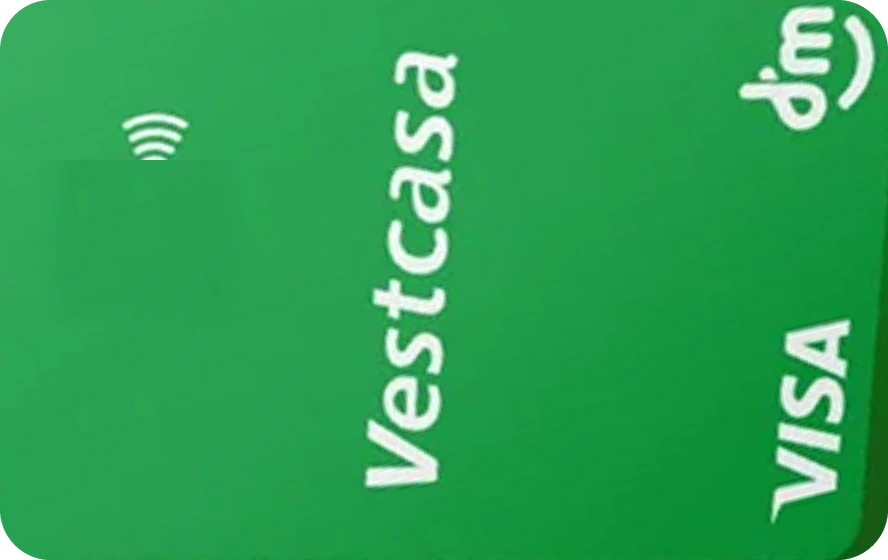
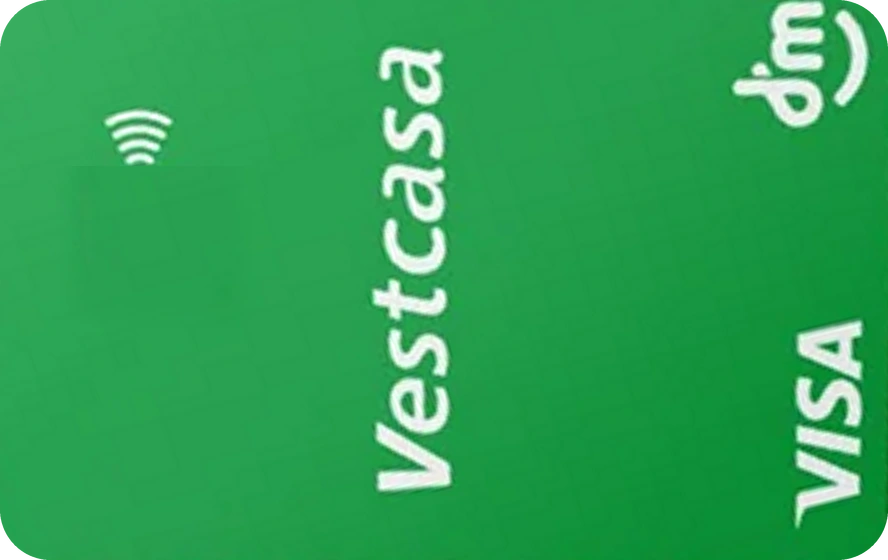
Fluxo PF: Vestcasa com o texto reto (vertical)

diff --git a/pf.js b/pf.js
@@ -362,7 +362,7 @@
   // Bancos usam assets/bancos/<id>.png; lojas usam assets/emissores/<id>.png (troque o arquivo pelo logo oficial quando quiser).
   const EMISSORES = [['bradesco', 'Bradesco', 'b'], ['nubank', 'Nubank', 'b'], ['itau', 'Itaú', 'b'], ['santander', 'Santander', 'b'], ['bb', 'Banco do Brasil', 'b'], ['caixa', 'Caixa', 'b'], ['inter', 'Inter', 'b'], ['c6', 'C6 Bank', 'b'], ['mercadopago', 'Mercado Pago', 'b'], ['brb', 'BRB', 'b'], ['digio', 'Digio', 'b'], ['picpay', 'PicPay', 'b'], ['carrefour', 'Carrefour', 'e'], ['renner', 'Renner', 'e'], ['marisa', 'Marisa', 'e'], ['vestcasa', 'Vest Casa', 'e'], ['dmcard', 'DM Card', 'e'], ['maiscard', 'Cartão Mais', 'e'], ['dibs', 'Dibs', 'e'], ['negreiros', 'Mercado Negreiros', 'e'], ['fernando', 'Armarinhos Fernando', 'e'], ['amazon', 'Amazon', 'e'], ['outro', 'Outro', '']];
   const emissorDe = c => { if (!c) return ''; if (c.emissor) return c.emissor; const n = norm(c.nome || ''), pal = x => new RegExp('(^|[^a-z0-9])' + x + '([^a-z0-9]|$)').test(n); return /bradesco/.test(n) ? 'bradesco' : (/nubank/.test(n) || pal('nu')) ? 'nubank' : /itau/.test(n) ? 'itau' : /santander/.test(n) ? 'santander' : (/brasil/.test(n) || pal('bb')) ? 'bb' : /caixa/.test(n) ? 'caixa' : pal('inter') ? 'inter' : pal('c6') ? 'c6' : /mercado *pago/.test(n) ? 'mercadopago' : pal('brb') ? 'brb' : /digio/.test(n) ? 'digio' : /picpay/.test(n) ? 'picpay' : /carrefour/.test(n) ? 'carrefour' : /renner/.test(n) ? 'renner' : /marisa/.test(n) ? 'marisa' : /vest *casa/.test(n) ? 'vestcasa' : (pal('dm') || /dm *card/.test(n)) ? 'dmcard' : /mais/.test(n) ? 'maiscard' : /dibs/.test(n) ? 'dibs' : /negreiros/.test(n) ? 'negreiros' : /fernando/.test(n) ? 'fernando' : /amazon/.test(n) ? 'amazon' : ''; };
-  const imagemDe = c => { if (!c) return ''; if (c.imagem) return c.imagem; const n = norm(c.nome || ''); if (emissorDe(c) === 'nubank' && /master/i.test(c.bandeira || '')) return 'assets/cartoes/nubank-mastercard.webp?v=1'; if (emissorDe(c) === 'caixa' && /visa/i.test(c.bandeira || '')) return 'assets/cartoes/caixa-visa.webp?v=1'; if (emissorDe(c) === 'brb' && /visa/i.test(c.bandeira || '')) return 'assets/cartoes/brb-visa.webp?v=1'; if (emissorDe(c) === 'digio' && /visa/i.test(c.bandeira || '')) return 'assets/cartoes/digio-visa.webp?v=1'; if (emissorDe(c) === 'amazon' && /master/i.test(c.bandeira || '')) return 'assets/cartoes/amazon-mastercard.webp?v=2'; if (emissorDe(c) === 'negreiros') return 'assets/cartoes/negreiros.webp?v=2'; if (emissorDe(c) === 'vestcasa') return 'assets/cartoes/vestcasa.webp?v=3'; if (emissorDe(c) === 'fernando') return 'assets/cartoes/fernando.webp?v=1'; if (emissorDe(c) === 'dmcard') return 'assets/cartoes/dmcard.webp?v=1'; if (emissorDe(c) === 'renner') return 'assets/cartoes/renner.webp?v=1'; if (emissorDe(c) === 'marisa') return 'assets/cartoes/marisa.webp?v=1'; if (emissorDe(c) === 'dibs') return 'assets/cartoes/dibs.webp?v=1'; if (emissorDe(c) === 'maiscard') return 'assets/cartoes/maiscard.webp?v=1'; return /bradesco/.test(n) && /disney/.test(n) ? 'assets/cartoes/bradesco-disney.webp?v=4' : (/bradesco/.test(n) && /(^|[^a-z0-9])neo([^a-z0-9]|$)/.test(n) ? 'assets/cartoes/bradesco-neo.webp?v=4' : ''); };
+  const imagemDe = c => { if (!c) return ''; if (c.imagem) return c.imagem; const n = norm(c.nome || ''); if (emissorDe(c) === 'nubank' && /master/i.test(c.bandeira || '')) return 'assets/cartoes/nubank-mastercard.webp?v=1'; if (emissorDe(c) === 'caixa' && /visa/i.test(c.bandeira || '')) return 'assets/cartoes/caixa-visa.webp?v=1'; if (emissorDe(c) === 'brb' && /visa/i.test(c.bandeira || '')) return 'assets/cartoes/brb-visa.webp?v=1'; if (emissorDe(c) === 'digio' && /visa/i.test(c.bandeira || '')) return 'assets/cartoes/digio-visa.webp?v=1'; if (emissorDe(c) === 'amazon' && /master/i.test(c.bandeira || '')) return 'assets/cartoes/amazon-mastercard.webp?v=2'; if (emissorDe(c) === 'negreiros') return 'assets/cartoes/negreiros.webp?v=2'; if (emissorDe(c) === 'vestcasa') return 'assets/cartoes/vestcasa.webp?v=4'; if (emissorDe(c) === 'fernando') return 'assets/cartoes/fernando.webp?v=1'; if (emissorDe(c) === 'dmcard') return 'assets/cartoes/dmcard.webp?v=1'; if (emissorDe(c) === 'renner') return 'assets/cartoes/renner.webp?v=1'; if (emissorDe(c) === 'marisa') return 'assets/cartoes/marisa.webp?v=1'; if (emissorDe(c) === 'dibs') return 'assets/cartoes/dibs.webp?v=1'; if (emissorDe(c) === 'maiscard') return 'assets/cartoes/maiscard.webp?v=1'; return /bradesco/.test(n) && /disney/.test(n) ? 'assets/cartoes/bradesco-disney.webp?v=4' : (/bradesco/.test(n) && /(^|[^a-z0-9])neo([^a-z0-9]|$)/.test(n) ? 'assets/cartoes/bradesco-neo.webp?v=4' : ''); };
   function emissorLogo(id, z) {
     z = z || 24; const e = EMISSORES.find(x => x[0] === id);
     if (!e || e[2] === '') return bancoLogo('outro', z);
